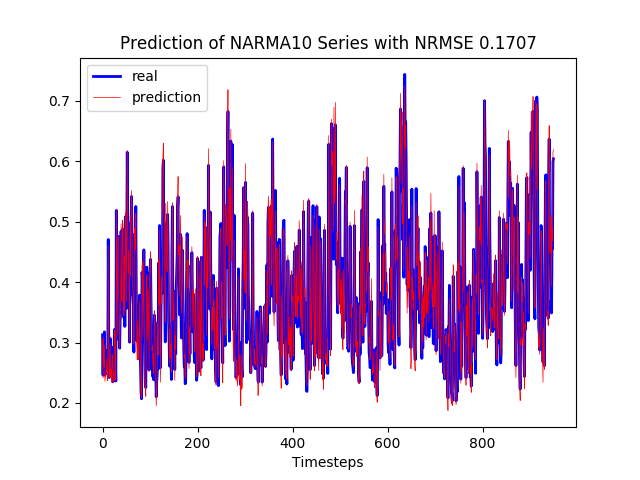
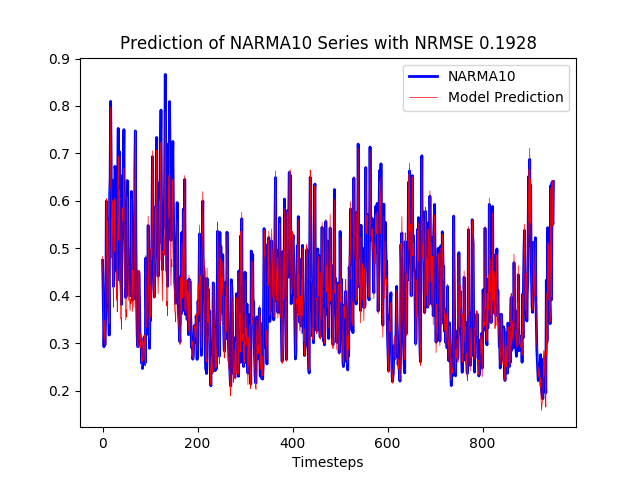
renamed and small fix

diff --git a/demonstration.py b/demonstration.py
@@ -48,8 +48,8 @@ def NARMA10_TEST(N=800, train_cycles=4000, test_cycles=1000, warmup_cycles=100):
     # plot
     plt.figure("Prediction Plot")
     plt.title("Prediction of NARMA10 Series with NRMSE {0:.4f}".format(NRMSE))
-    plt.plot(y_consider, color="blue", linewidth=2, label="real")
-    plt.plot(yhat_consider, color="red", linewidth=0.5, linestyle='-', label="prediction")
+    plt.plot(y_consider, color="blue", linewidth=2, label="NARMA10")
+    plt.plot(yhat_consider, color="red", linewidth=0.5, linestyle='-', label="Model Prediction")
     plt.xlabel("Timesteps")
     plt.legend()
     plt.savefig("./images/prediction_plot.png")
@@ -67,4 +67,4 @@ if (__name__=="__main__"):
         os.mkdir('./images')
 
     nrmse = NARMA10_TEST()
-    print(nrmse)
+    print("[*] NRMSE = {0:.4f}!".format(nrmse))
